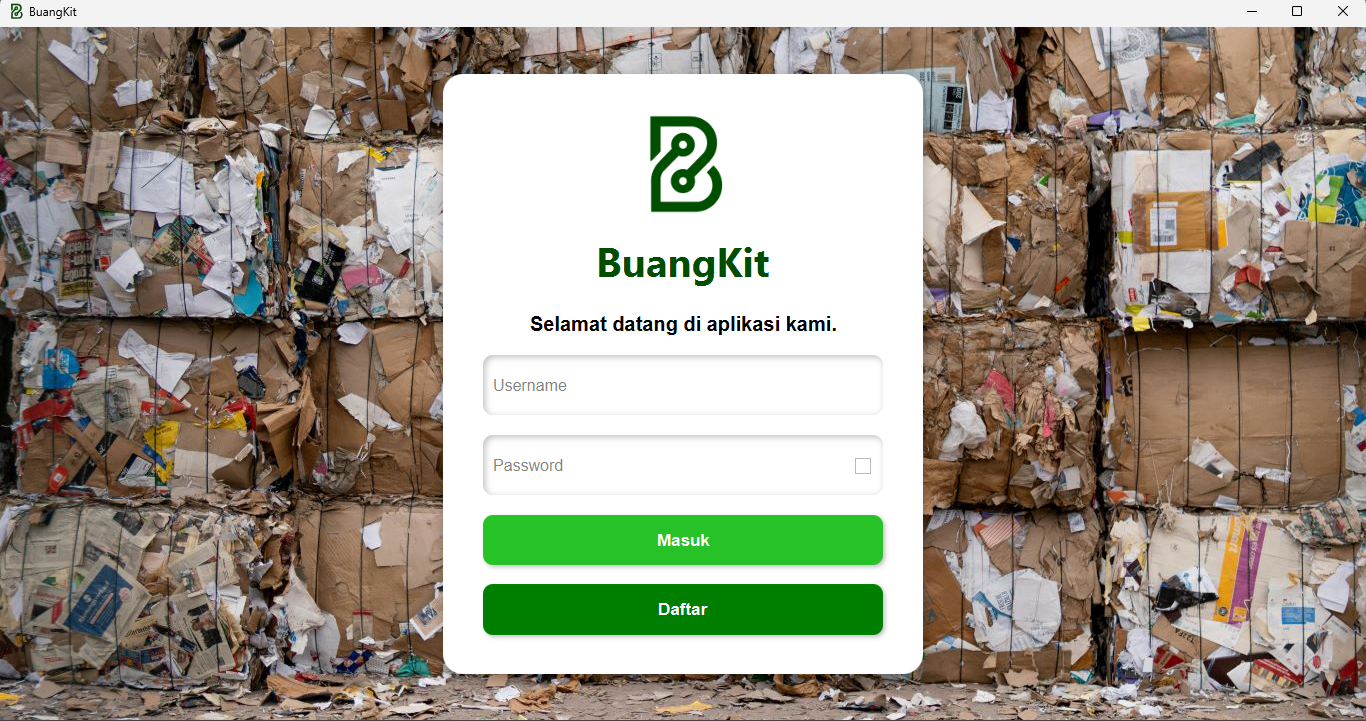
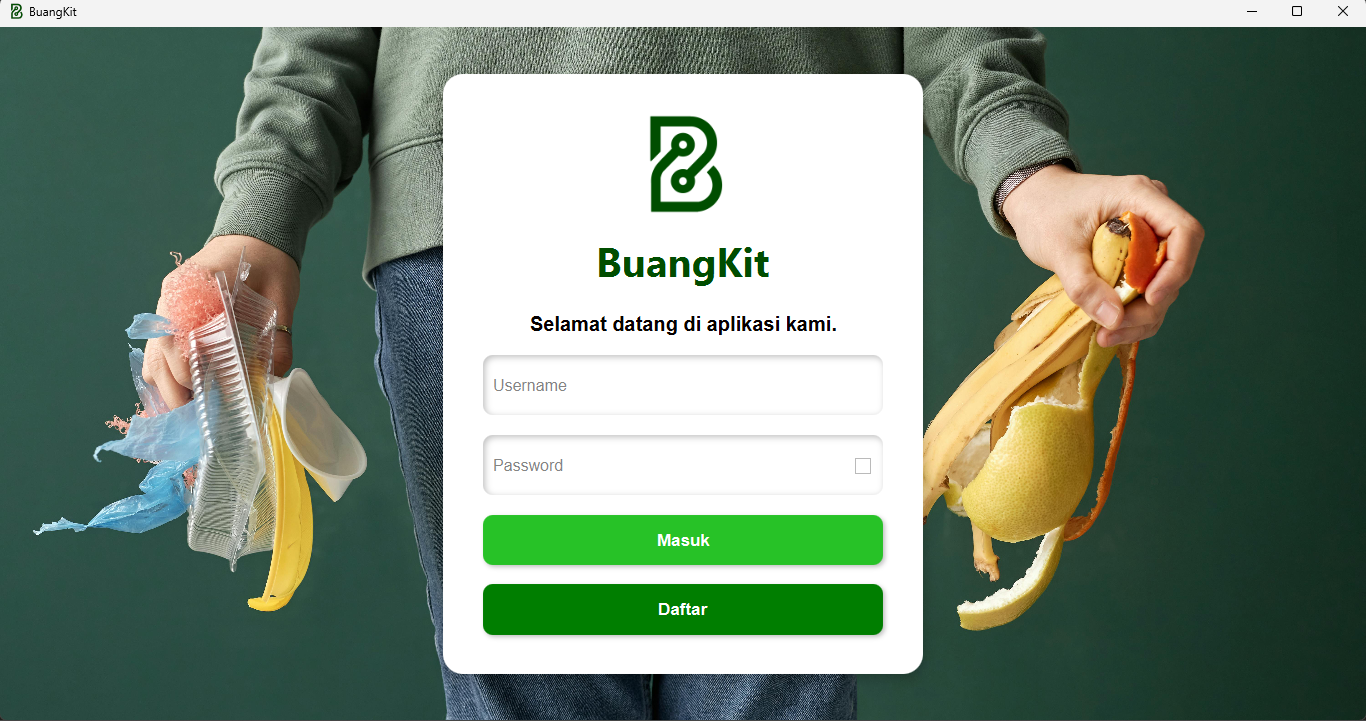
Readme adjust

diff --git a/app/src/main/resources/style/home.css b/app/src/main/resources/style/home.css
@@ -1,7 +1,7 @@
 /* @import url('https://fonts.googleapis.com/css2?family=Bebas+Neue&family=Arial:ital,wght@0,100..900;1,100..900&family=Arial&display=swap'); */
 
 #background {
-  -fx-background-image: url(/images/bgg.jpg);
+  -fx-background-image: url(/images/background.jpg);
   -fx-background-size: 1366, 696;
   -fx-background-repeat: no-repeat;
   -fx-padding: 50px, 100px, 50px, 100px;

diff --git a/app/src/main/resources/style/trash.css b/app/src/main/resources/style/trash.css
@@ -6,7 +6,7 @@
   -fx-font-weight: bold;
 }
 #background {
-  -fx-background-image: url(/images/bg2.jpg);
+  -fx-background-image: url(/images/bgg.jpg);
   -fx-background-size: 1366, 696;
   -fx-background-repeat: no-repeat;
   -fx-padding: 50px, 100px, 50px, 100px;

diff --git a/README.md b/README.md
@@ -1,10 +1,10 @@
-## project-BuangKit
+# project-BuangKit
 BuangKit (Buang, Uang, Bangkit) adalah sebuah inovasi aplikasi dengan menerapkan sistem membuang sampah untuk mendapatkan uang dan bangkit dari bencana sampah pada era saat ini.
 
 # Informasi Tim
-Nama        : TAYI
-Instansi    : Universitas Hasanuddin
-Anggota     :
+## Nama        : TAYI
+## Instansi    : Universitas Hasanuddin
+## Anggota     :
 1. Yusra Erlangga Putra         H071231052 
 2. Thahirah Awlyah Zahra        H071221073 
 3. Muhammad Ikhsan Saputra      H071231083 
@@ -49,5 +49,17 @@ https://github.com/YusraEr/project-BuangKit.git
 Muhammad Thoriq Ali Said – Rabu, 29 Mei 2024
 
 # Demo Aplikasi
-Login Scene
+## Login Scene
 ![Login Scene](dokumentasi/loginScene.png)
+## Register Scene
+![Login Scene](dokumentasi/registerScene.png)
+## Home Scene
+![Login Scene](dokumentasi/homeScene.png)
+## History Scene
+![Login Scene](dokumentasi/historyScene.png)
+## Reward Scene
+![Login Scene](dokumentasi/rewardScene.png)
+## Point Scene
+![Login Scene](dokumentasi/pointExchange.png)
+## Trash Scene
+![Login Scene](dokumentasi/trashScene.png)
